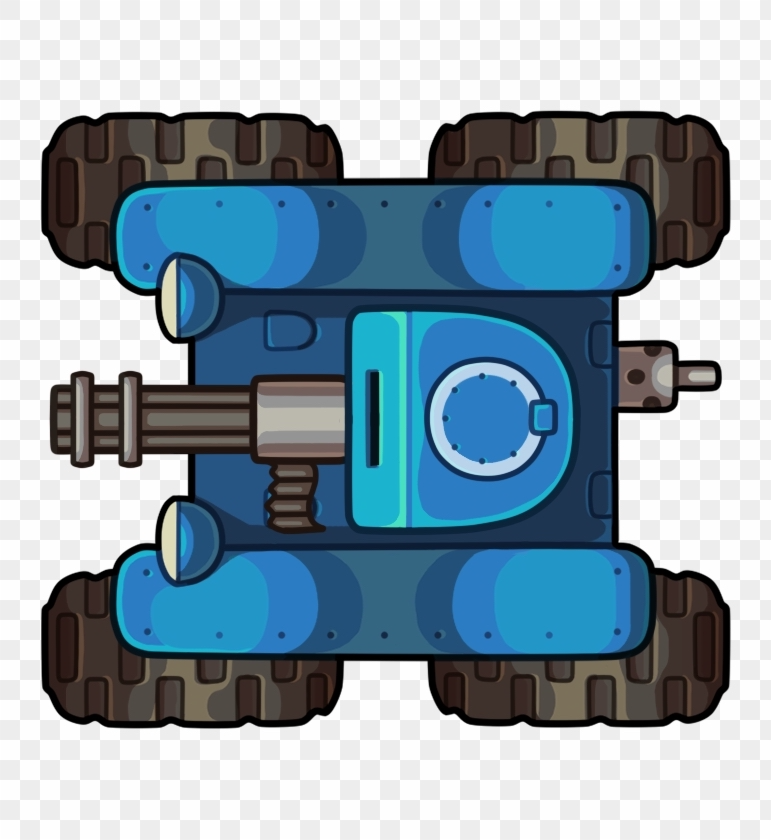
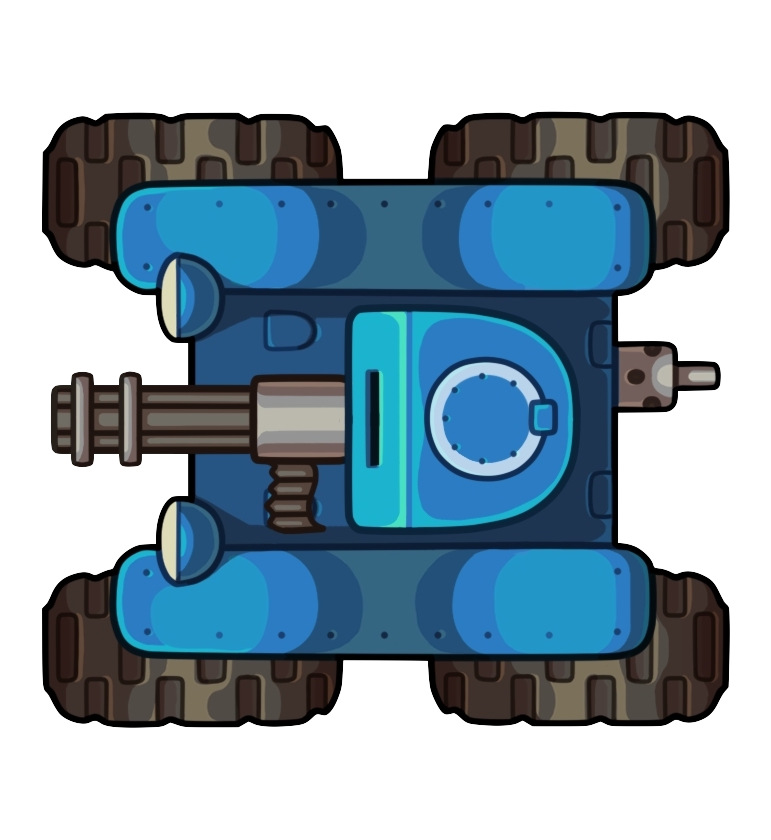
continued

diff --git a/src/GamePanel.java b/src/GamePanel.java
@@ -3,7 +3,9 @@ import java.awt.Font;
 import java.awt.Graphics;
 import java.awt.event.KeyEvent;
 import java.awt.event.KeyListener;
+import java.awt.image.BufferedImage;
 
+import javax.imageio.ImageIO;
 import javax.swing.JOptionPane;
 import javax.swing.JPanel;
 
@@ -18,6 +20,14 @@ public class GamePanel extends JPanel implements KeyListener {
     Tank tank = new Tank(175, 225, 50, 50);
     Tank2 tank2 = new Tank2(575, 225, 50, 50);
     ObjectManager objectmanager = new ObjectManager(tank, tank2);
+    public static BufferedImage image;
+    public static boolean needImage = true;
+    public static boolean gotImage = false;	
+    public GamePanel() {
+	    if (needImage) {
+	        loadImage ("field.jpeg");
+	    }
+    }
 	
 	@Override
 	public void paintComponent(Graphics g){
@@ -34,10 +44,16 @@ public class GamePanel extends JPanel implements KeyListener {
 	}
 	void updateGameState() {
 		objectmanager.update();
+		if (objectmanager.tank.isActive == false) {
+			currentState = END;
+		}
+		if (objectmanager.tank2.isActive == false) {
+			currentState = END;
+		}
 	}
 	void drawMenuState(Graphics g) {
 		g.setColor(Color.BLUE);
-		g.fillRect(0, 0, Main.HEIGHT, Main.LENGTH);
+		g.fillRect(0, 0, Main.WIDTH, Main.HEIGHT);
 		g.setFont(titleFont);
 		g.setColor(Color.YELLOW);
 		g.drawString("TANKS GAME", 225, 125);
@@ -46,18 +62,30 @@ public class GamePanel extends JPanel implements KeyListener {
 		g.drawString("Press SPACE for instructions", 245, 344);
 	}
 	void drawGameState(Graphics g) {
-		g.setColor(Color.BLACK);
-		g.fillRect(0, 0, Main.HEIGHT, Main.LENGTH);
+		if (gotImage) {
+			g.drawImage(image, 0, 0, Main.WIDTH, Main.HEIGHT, null);
+		} else {
+			g.setColor(Color.BLACK);
+			g.fillRect(0, 0, Main.WIDTH, Main.HEIGHT);
+		}
 		g.setColor(Color.WHITE);
 		g.drawLine(400, 0, 400, 500);
 		objectmanager.draw(g);
 	}
 	void drawEndState(Graphics g)  {
 		g.setColor(Color.RED);
-		g.fillRect(0, 0, Main.HEIGHT, Main.LENGTH);
+		g.fillRect(0, 0, Main.WIDTH, Main.HEIGHT);
 		g.setFont(titleFont);
 		g.setColor(Color.BLACK);
-		g.drawString("Player _ wins!!", 225, 150);
+		if (objectmanager.getTank1Score() == 1) {
+			g.drawString("Player 1 wins!!", 225, 150);
+		}
+		if (objectmanager.getTank2Score()==1) {
+			g.drawString("Player 2 wins!!", 225, 150);
+		}
+		else {
+			g.drawString("Nobody Wins!!", 225, 150);
+		}
 		g.setFont(subtitleFont);
 		g.drawString("Press ENTER to play again", 243, 325);
 	}
@@ -73,7 +101,7 @@ public class GamePanel extends JPanel implements KeyListener {
 		}
 		if (currentState==MENU) {
 			if (e.getKeyCode()==KeyEvent.VK_SPACE) {
-					JOptionPane.showMessageDialog(null, "This is a 2-player game where each player controls a rocket using either the arrow keys or wasd, and they try to kill the other player's tank by shooting it down while dodging their shots. You cannot cross the center line");
+					JOptionPane.showMessageDialog(null, "This is a 2-player game where each player controls a rocket using either the arrow keys or wasd, and they try to kill the opposing player's tank by shooting it down while dodging the opposing player's shots. The button to shoot is either shift or SPACE, and you cannot cross the center line");
 			}
 		}
 		if (currentState==GAME) {
@@ -127,12 +155,12 @@ public class GamePanel extends JPanel implements KeyListener {
 				tank.right();
 			}
 			
-			if (e.getKeyCode() == KeyEvent.VK_SPACE) {
-				
+			if (e.getKeyCode() == KeyEvent.VK_SHIFT) {
+				objectmanager.addProjectile(tank.getProjectile());
 			}
 			
-			if (e.getKeyCode() == KeyEvent.VK_0) {
-				
+			if (e.getKeyCode() == KeyEvent.VK_SPACE) {
+				objectmanager.addProjectile2(tank2.getProjectile2());
 			}
 		}
 		repaint();
@@ -149,6 +177,16 @@ public class GamePanel extends JPanel implements KeyListener {
 		// TODO Auto-generated method stub
 		
 	}
-
+	void loadImage(String imageFile) {
+	    if (needImage) {
+	        try {
+	            image = ImageIO.read(this.getClass().getResourceAsStream(imageFile));
+		    gotImage = true;
+	        } catch (Exception e) {
+	            
+	        }
+	        needImage = false;
+	    }
+	}
 	
 }

diff --git a/src/ObjectManager.java b/src/ObjectManager.java
@@ -1,12 +1,16 @@
 import java.awt.Graphics;
+import java.awt.event.ActionEvent;
+import java.awt.event.ActionListener;
 import java.util.ArrayList;
 
-public class ObjectManager {
+public class ObjectManager implements ActionListener{
 
 	Tank tank;
 	Tank2 tank2;
 	ArrayList<Projectile> projectiles = new ArrayList<Projectile>();
 	ArrayList<Projectile2> projectiles2 = new ArrayList<Projectile2>();
+	int tank1Score = 0;
+	int tank2Score = 0;
 	
 	public ObjectManager(Tank tank, Tank2 tank2) {
 		this.tank=tank;
@@ -62,5 +66,34 @@ public class ObjectManager {
 			}
 			projectile2length--;
 		}
+	}
+	
+	void checkCollision() {
+		for (int i = 0; i < projectiles2.size(); i++) {
+			if (tank.collisionBox.intersects(projectiles2.get(i).collisionBox)) {
+				tank2Score++;
+				tank.isActive = false;
+				projectiles2.get(i).isActive = false;
+			}
+		}
+		for (int j = 0; j < projectiles.size(); j++) {
+			tank1Score++;
+			if (tank2.collisionBox.intersects(projectiles.get(j).collisionBox)) {
+				projectiles.get(j).isActive = false;
+				tank2.isActive = false;
+			}
+		}
+	}
+	public int getTank1Score() {
+		return tank1Score;
+	}
+	public int getTank2Score() {
+		return tank2Score;
+	}
+
+	@Override
+	public void actionPerformed(ActionEvent arg0) {
+		// TODO Auto-generated method stub
+		
 	}
 }

diff --git a/src/Main.java b/src/Main.java
@@ -4,8 +4,8 @@ public class Main {
 
 	JFrame frame;
 	GamePanel panel;
-	public static final int HEIGHT = 800;
-	public static final int LENGTH = 500;
+	public static final int WIDTH = 800;
+	public static final int HEIGHT = 500;
 	
 	public Main() {
 		frame = new JFrame();
@@ -14,7 +14,7 @@ public class Main {
 	
 	void setup() {
 		frame.add(panel);
-		frame.setSize(HEIGHT, LENGTH);
+		frame.setSize(WIDTH, HEIGHT);
 		frame.setVisible(true);
 		frame.setDefaultCloseOperation(JFrame.EXIT_ON_CLOSE);
 		frame.addKeyListener(panel);

diff --git a/src/GameObject.java b/src/GameObject.java
@@ -1,3 +1,4 @@
+import java.awt.Rectangle;
 
 public class GameObject {
 
@@ -7,17 +8,19 @@ public class GameObject {
 	int height;
 	int speed=0;
 	boolean isActive = true;
+	Rectangle collisionBox;
 	
 	public GameObject(int x, int y, int width, int height) {
 		this.x = x;
 		this.y = y;
 		this.width = width;
 		this.height = height;
+		collisionBox = new Rectangle(x, y, width, height);
 		
 	}
 	
 	void update() {
-		
+		collisionBox.setBounds(x, y, width, height);
 	}
 	
 }

diff --git a/src/Tank.java b/src/Tank.java
@@ -16,7 +16,7 @@ public class Tank extends GameObject{
 		speed=10;
 		// TODO Auto-generated constructor stub
 		if (needImage) {
-		    loadImage ("tank.jpeg");
+		    loadImage ("tank.png");
 		}
 	}
 	void draw(Graphics g) {
@@ -49,6 +49,9 @@ public class Tank extends GameObject{
 	        }
 	        needImage = false;
 	    }
+	}
+	public Projectile getProjectile() {
+        return new Projectile(x+width/2, y+height/2, 10, 10);
 	}
 
 }

diff --git a/src/Tank2.java b/src/Tank2.java
@@ -50,4 +50,7 @@ public class Tank2 extends GameObject{
 	        needImage = false;
 	    }
 	}
+	public Projectile2 getProjectile2() {
+        return new Projectile2(x+width/2, y+height/2, 10, 10);
+	}
 }

diff --git a/src/Projectile2.java b/src/Projectile2.java
@@ -30,6 +30,7 @@ public class Projectile2  extends GameObject{
 
 	void update() {
 		x-=speed;
+		super.update();
 	}
 	void loadImage(String imageFile) {
 	    if (needImage) {

diff --git a/src/Projectile.java b/src/Projectile.java
@@ -30,6 +30,7 @@ public class Projectile extends GameObject{
 
 	void update() {
 		x+=speed;
+		super.update();
 	}
 	void loadImage(String imageFile) {
 	    if (needImage) {
